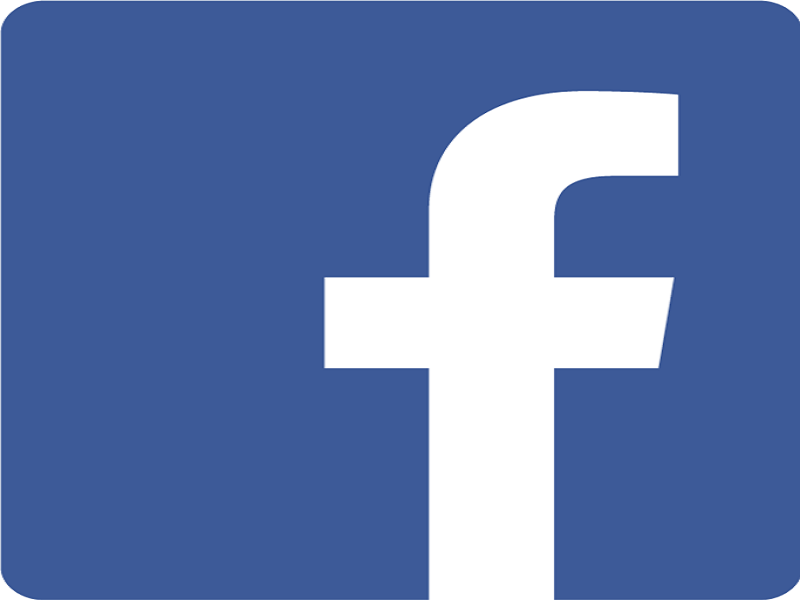
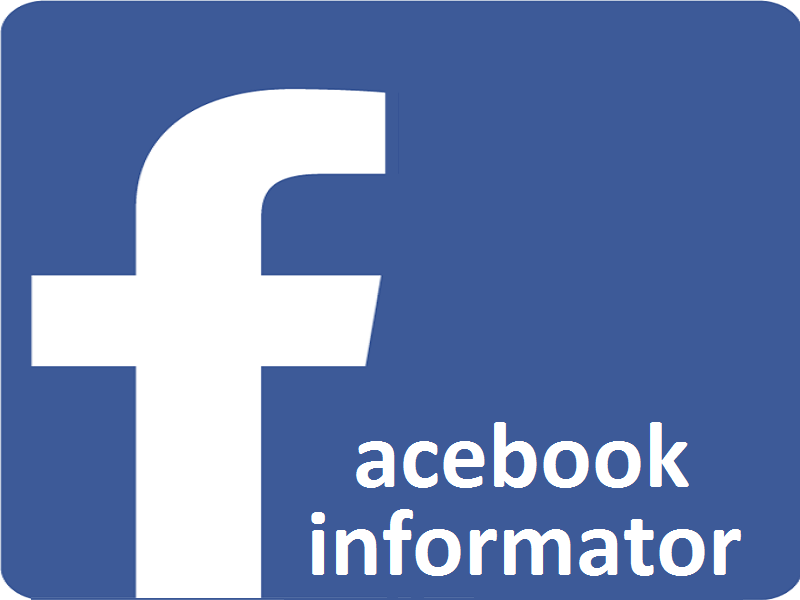
design chanegd

diff --git a/src/facebookinformator/GroupPeople.java b/src/facebookinformator/GroupPeople.java
@@ -5,16 +5,21 @@
  */
 package facebookinformator;
 
+import java.awt.Color;
+import java.awt.FlowLayout;
 import java.awt.Font;
 import java.awt.event.ActionEvent;
 import java.awt.event.ActionListener;
+import java.awt.event.KeyEvent;
 import java.io.File;
 import java.io.IOException;
 import javax.imageio.ImageIO;
+import javax.swing.ButtonGroup;
 import javax.swing.ImageIcon;
 import javax.swing.JButton;
 import javax.swing.JFrame;
 import javax.swing.JLabel;
+import javax.swing.JRadioButton;
 import javax.swing.JTextField;
 
 /**
@@ -35,51 +40,80 @@ public class GroupPeople
         fG.setDefaultCloseOperation(JFrame.DISPOSE_ON_CLOSE);
         
         try {
-            fG.setContentPane(new JLabel(new ImageIcon(ImageIO.read(new File("picture.png")))));
+            fG.setContentPane(new JLabel(new ImageIcon(ImageIO.read(new File("picture2.png")))));
         } catch (IOException e) {
         }
-        JLabel lTitle = new JLabel("Skupina lidí");
-        lTitle.setFont(new Font("Serif", Font.PLAIN, 44));
-        lTitle.setBounds(40, 2, 400, 44);
+        JLabel lTitle = new JLabel("Statistika lidí");
+        lTitle.setFont(new Font("Serif", Font.PLAIN, 60));
+        lTitle.setForeground(Color.WHITE);
+        lTitle.setBounds(40, 2, 400, 60);
         
-        JLabel lFirstN = new JLabel("Jméno:");
-        JTextField txtFirstN = new JTextField("");
-        lFirstN.setBounds(50, 50, 50, 25);
-        txtFirstN.setBounds(100, 50, 100, 25);
-
-        JLabel lLastN = new JLabel("Příjmení:");
-        JTextField txtLastN = new JTextField("");
-        lLastN.setBounds(50, 100, 50, 25);
-        txtLastN.setBounds(100, 100, 100, 25);
-
-        JLabel lAge = new JLabel("Věk:");
-        JTextField txtAge = new JTextField("");
-        lAge.setBounds(50, 150, 50, 25);
-        txtAge.setBounds(100, 150, 100, 25);   
+        JRadioButton bFirstN = new JRadioButton("Jméno");
+        bFirstN.setSelected(true);
         
-        JTextField txtAge2 = new JTextField("");
-        txtAge2.setBounds(210, 150, 100, 25);  
+        JRadioButton bLastN = new JRadioButton("Příjmení");
+        bLastN.setSelected(false);
         
+        JRadioButton bAge = new JRadioButton("Věk");
+        bAge.setSelected(false);
+        
+        ButtonGroup group = new ButtonGroup();
+        group.add(bFirstN);
+        group.add(bLastN);
+        group.add(bAge);
+        
+        bFirstN.setBounds(55, 100, 100, 25); bFirstN.setOpaque(false);
+        bLastN.setBounds(55, 130, 100, 25); bLastN.setOpaque(false);
+        bAge.setBounds(55, 165, 100, 25); bAge.setOpaque(false);
+        
+        JRadioButton bCountry = new JRadioButton("Země");
+        bCountry.setSelected(true);
+        
+        JRadioButton bCity = new JRadioButton("Město");
+        bCity.setSelected(false);
+        
+        JRadioButton bUniversity = new JRadioButton("Univerzita");
+        bUniversity.setSelected(false);
+        
+        ButtonGroup group2 = new ButtonGroup();
+        group2.add(bCountry);
+        group2.add(bCity);
+        group2.add(bUniversity);
+        
+        bCountry.setBounds(250, 100, 100, 25); bCountry.setOpaque(false);
+        bCity.setBounds(250, 130, 100, 25); bCity.setOpaque(false);
+        bUniversity.setBounds(250, 165, 100, 25); bUniversity.setOpaque(false);
+        
+        JTextField txtLeft = new JTextField("");
+        txtLeft.setBounds(40, 200, 100, 25);
+        JTextField txtRight = new JTextField("");
+        txtRight.setBounds(240, 200, 100, 25);
+        
+       
         bSubmit.setBounds(50, 350, 200, 50);
         
         bSubmit.addActionListener(new ActionListener()
                {
                     public void actionPerformed(ActionEvent e) 
                     {
-                     if(!txtFirstN.getText().equals("") || !txtLastN.getText().equals("") || (!txtAge.getText().equals("") && !txtAge2.getText().equals("") ))
-                        new GroupResult(txtFirstN.getText(), txtLastN.getText(), txtAge.getText(), txtAge2.getText());  
+                     if(!txtLeft.getText().equals(""))
+                        new GroupResult(txtLeft.getText());  
                     }
                 });
         
-        fG.add(lFirstN);
-        fG.add(txtFirstN);
-        fG.add(lLastN);
-        fG.add(txtLastN);
-        fG.add(lAge);
-        fG.add(txtAge);   
+       
+        
         fG.add(bSubmit);
         fG.add(lTitle);
-        fG.add(txtAge2);
+        fG.add(bFirstN);
+        fG.add(bLastN);
+        fG.add(bAge);
+        fG.add(txtLeft);
+        
+        fG.add(bCountry);
+        fG.add(bCity);
+        fG.add(bUniversity);
+        fG.add(txtRight);
         
         fG.setVisible(true);
      

diff --git a/src/facebookinformator/GroupResult.java b/src/facebookinformator/GroupResult.java
@@ -33,25 +33,18 @@ import org.jfree.util.Rotation;
 public class GroupResult
 {
     public JFrame fGR = new JFrame("Facebook Informator");
-    public static String firstName, lastName, age, age2;
+    public static String txtLeft, txtRight;
     static HashMap<Integer,Integer> hm = new HashMap<Integer,Integer>();  
     static Collection dataChart = new HashSet();
     static String title = "";        
             
-    GroupResult(String firstName, String lastName, String age, String age2)
+    GroupResult(String txtLeft)
     {
-     this.firstName = firstName;
-     this.lastName = lastName;
-     this.age = age;
-     this.age2 = age2;
+     this.txtLeft = txtLeft;
+
      
-     if(!firstName.equals(""))
-        title += " jména";
-     if(!lastName.equals(""))
-        title += " příjmení";
-     if(!age.equals(""))
-        title += " věku";
-     
+     if(!txtLeft.equals(""))
+        title += " Levé";
      
      createUI();
      /*
@@ -125,10 +118,10 @@ public class GroupResult
     
     public static void checkHashMap()
     {
-        int start = Integer.parseInt(age);
-        int end = Integer.parseInt(age2);
+        //int start = Integer.parseInt(age);
+        //int end = Integer.parseInt(age2);
         
-        if(!age.equals("") && !age2.equals(""))
+        /*if(!age.equals("") && !age2.equals(""))
         {
             Collection<?> keys = hm.keySet();
             for(Object key : keys)
@@ -139,7 +132,7 @@ public class GroupResult
                // System.out.println("Vek: " + key + ", pocet: " + hm.get(key)); 
                 }
             }
-        }
+        }*/
         
         
        /* for(Object var : dataChart)

diff --git a/src/facebookinformator/Database.java b/src/facebookinformator/Database.java
@@ -37,7 +37,7 @@ public class Database
                 // use comma as separator
                 String[] onePerson = line.split(cvsSplitBy);
                 everyone.add(new Person(onePerson[0],onePerson[1],onePerson[2],onePerson[3],onePerson[4],onePerson[5],onePerson[6],onePerson[7],onePerson[8]));
-                System.out.println(everyone.get(i).getFirstName() + " " + everyone.get(i).getLastName() + " " + everyone.get(i).getEmail() + " " + everyone.get(i).getGender() + " " + everyone.get(i).getCity() + " " + everyone.get(i).getCountry() + " " + everyone.get(i).getIP() + " " + everyone.get(i).getTelephone() + " " + everyone.get(i).getUniversity());
+                //System.out.println(everyone.get(i).getFirstName() + " " + everyone.get(i).getLastName() + " " + everyone.get(i).getEmail() + " " + everyone.get(i).getGender() + " " + everyone.get(i).getCity() + " " + everyone.get(i).getCountry() + " " + everyone.get(i).getIP() + " " + everyone.get(i).getTelephone() + " " + everyone.get(i).getUniversity());
                 i++;
 
             }

diff --git a/src/facebookinformator/SinglePerson.java b/src/facebookinformator/SinglePerson.java
@@ -29,6 +29,7 @@ public class SinglePerson
 {
      public JFrame fS = new JFrame("Facebook Informator");
      public JButton bSubmit = new JButton("Hledej");
+     public JButton bNext = new JButton("Další");
      
      SinglePerson ()
      {
@@ -100,7 +101,8 @@ public class SinglePerson
         lUniversity.setBounds(210, 250, 100, 25);
         txtUniversity.setBounds(280, 250, 100, 25); 
         
-        bSubmit.setBounds(140, 300, 200, 50);
+        bSubmit.setBounds(130, 300, 100, 50);
+        bNext.setBounds(250, 300, 100, 50);
         
         bSubmit.addActionListener(new ActionListener()
                {
@@ -134,6 +136,7 @@ public class SinglePerson
         fS.add(txtPhone);
         fS.add(lUniversity);
         fS.add(txtUniversity);
+        fS.add(bNext);
         
         fS.setVisible(true);
      }

diff --git a/src/facebookinformator/MainGUI.java b/src/facebookinformator/MainGUI.java
@@ -39,8 +39,8 @@ public class MainGUI
         } catch (IOException e) {
         }
       
-       bSingle.setBounds(50, 50, 200, 50);
-       bPeople.setBounds(50, 110, 200, 50);
+       bSingle.setBounds(500, 150, 200, 50);
+       bPeople.setBounds(500, 250, 200, 50);
  
        bSingle.addActionListener(new ActionListener()
                {
